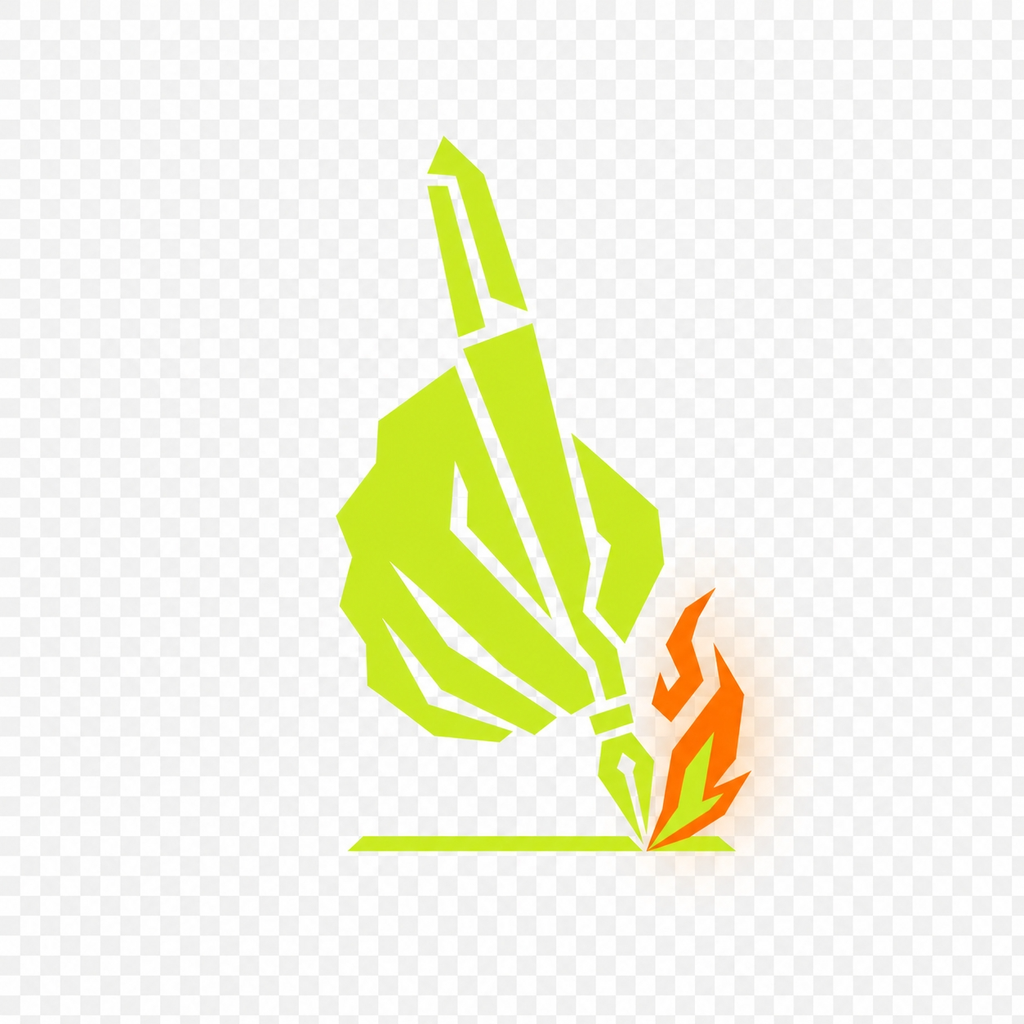
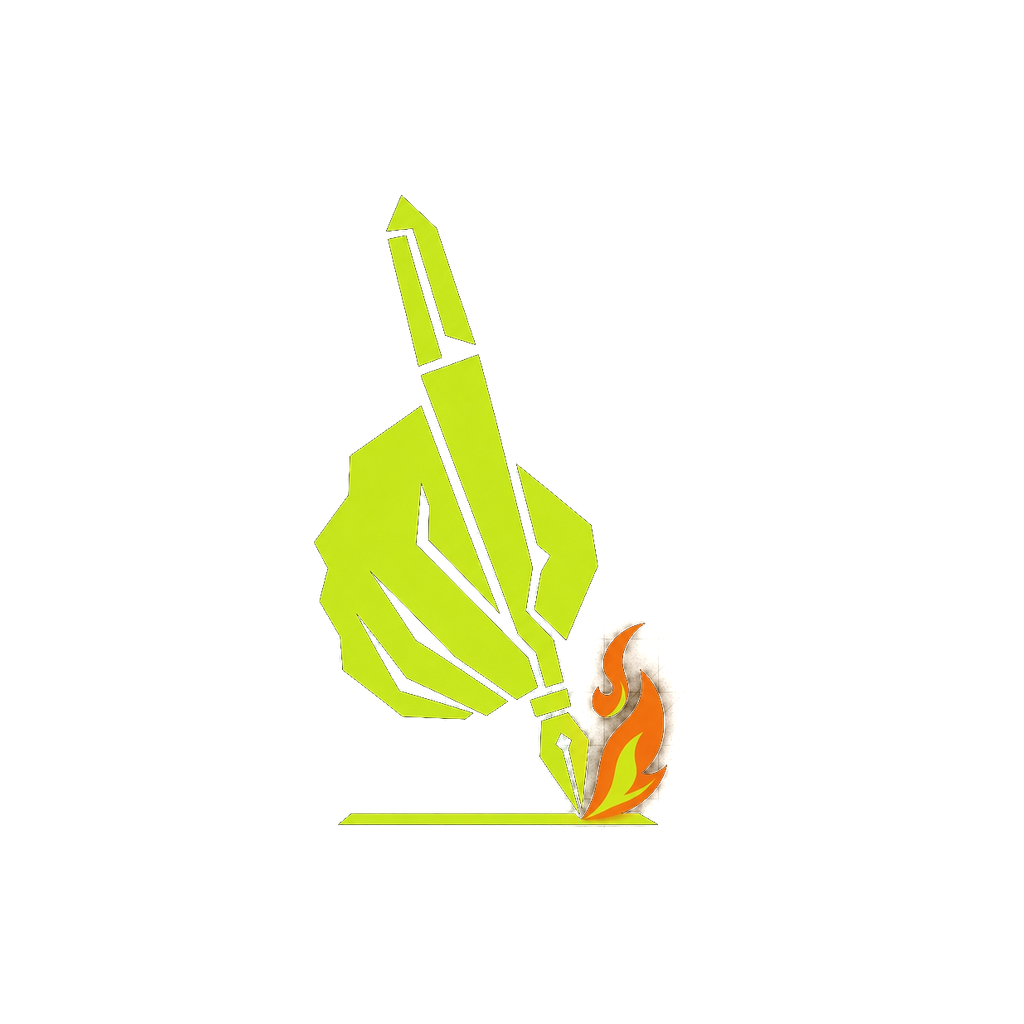
オンボーディングのロゴをアプリアイコンと同じ絵柄に統一
- assets/logo-mark.png を追加（icon.png のアートを背景キーイングで透過抽出）
- Logo コンポーネントを旧・炎SVGから、このマーク画像の表示に変更。
  ホーム画面のアイコンとオンボーディング/ログイン画面の絵柄が一致する
- adaptive-icon.png を差し替え: 透過チェッカー柄が不透明な白として
  焼き込まれていたため、Android のランチャーで白い市松模様の四角が
  出る状態だった。透過の前景をセーフゾーンに収めて再生成

Claude-Session: https://claude.ai/code/session_017GA4E8dndE4cgPu4xiMg2L

Changed region(s): [[0.3125, 0.125, 0.7812, 0.8438]]

diff --git a/src/components/Logo.tsx b/src/components/Logo.tsx
@@ -1,55 +1,35 @@
 import React, { useId } from 'react';
-import { View } from 'react-native';
-import Svg, {
-  Path,
-  Circle,
-  Defs,
-  LinearGradient,
-  RadialGradient,
-  Stop,
-  G,
-} from 'react-native-svg';
-
-/** 炎の各パーツ（app iconと同じ形） */
-const BODY =
-  'M64 10 C74 32 88 44 88 68 C88 92 74 110 58 110 C41 110 29 95 29 77 C29 64 36 55 44 52 C42 63 51 67 52 58 C53 47 46 40 54 27 C57 22 61 16 64 10 Z';
-const CORE =
-  'M62 40 C69 55 78 63 76 80 C74 94 67 101 58 101 C48 101 43 91 43 79 C43 69 50 60 62 40 Z';
-const PURPLE = 'M86 50 C99 63 99 86 85 99 C81 87 79 72 86 50 Z';
+import { Image, StyleSheet, View } from 'react-native';
+import Svg, { Defs, Path, RadialGradient, Stop } from 'react-native-svg';
 
 /**
- * アプリのロゴマーク（炎・SVGベクター）。app iconと同じ絵柄で、
- * オンボーディングや共有カードで“アプリの顔”として使う。
+ * アプリのロゴマーク。アプリアイコン（assets/icon.png）と同じ絵柄を
+ * 背景透過で切り出した logo-mark.png を表示するので、ホーム画面のアイコンと
+ * オンボーディング/ログイン画面の見た目が完全に一致する。
+ * 絵柄の内側の黒い線はそのまま透過なので、暗い背景の上で自然に馴染む。
  */
 export function Logo({ size = 120, glow = true }: { size?: number; glow?: boolean }) {
   const uid = useId().replace(/:/g, '');
   return (
     <View style={{ width: size, height: size }}>
-      <Svg width={size} height={size} viewBox="-8 -6 136 136">
-        <Defs>
-          <LinearGradient id={`body${uid}`} x1="0" y1="0" x2="0.3" y2="1">
-            <Stop offset="0" stopColor="#D9F94F" />
-            <Stop offset="0.55" stopColor="#C6F432" />
-            <Stop offset="1" stopColor="#FF9F43" />
-          </LinearGradient>
-          <LinearGradient id={`core${uid}`} x1="0" y1="0" x2="0" y2="1">
-            <Stop offset="0" stopColor="#F4FFC4" />
-            <Stop offset="1" stopColor="#D9F94F" />
-          </LinearGradient>
-          <RadialGradient id={`glow${uid}`} cx="0.5" cy="0.62" r="0.55">
-            <Stop offset="0" stopColor="#C6F432" stopOpacity="0.32" />
-            <Stop offset="1" stopColor="#C6F432" stopOpacity="0" />
-          </RadialGradient>
-        </Defs>
-        {glow && <Path d="M-8 -6 h136 v136 h-136 Z" fill={`url(#glow${uid})`} />}
-        <G>
-          <Path d={PURPLE} fill="#A78BFA" opacity={0.9} />
-          <Path d={BODY} fill={`url(#body${uid})`} />
-          <Path d={CORE} fill={`url(#core${uid})`} opacity={0.92} />
-          <Circle cx={80} cy={30} r={3.2} fill="#D9F94F" />
-          <Circle cx={34} cy={44} r={2.4} fill="#FF9F43" />
-        </G>
-      </Svg>
+      {glow && (
+        <Svg width={size} height={size} viewBox="0 0 100 100" style={StyleSheet.absoluteFill}>
+          <Defs>
+            <RadialGradient id={`glow${uid}`} cx="0.5" cy="0.62" r="0.55">
+              <Stop offset="0" stopColor="#C6F432" stopOpacity="0.28" />
+              <Stop offset="1" stopColor="#C6F432" stopOpacity="0" />
+            </RadialGradient>
+          </Defs>
+          <Path d="M0 0 h100 v100 h-100 Z" fill={`url(#glow${uid})`} />
+        </Svg>
+      )}
+      <Image
+        source={require('../../assets/logo-mark.png')}
+        style={{ width: size, height: size }}
+        resizeMode="contain"
+        accessibilityRole="image"
+        accessibilityLabel="覚悟の勉強"
+      />
     </View>
   );
 }
